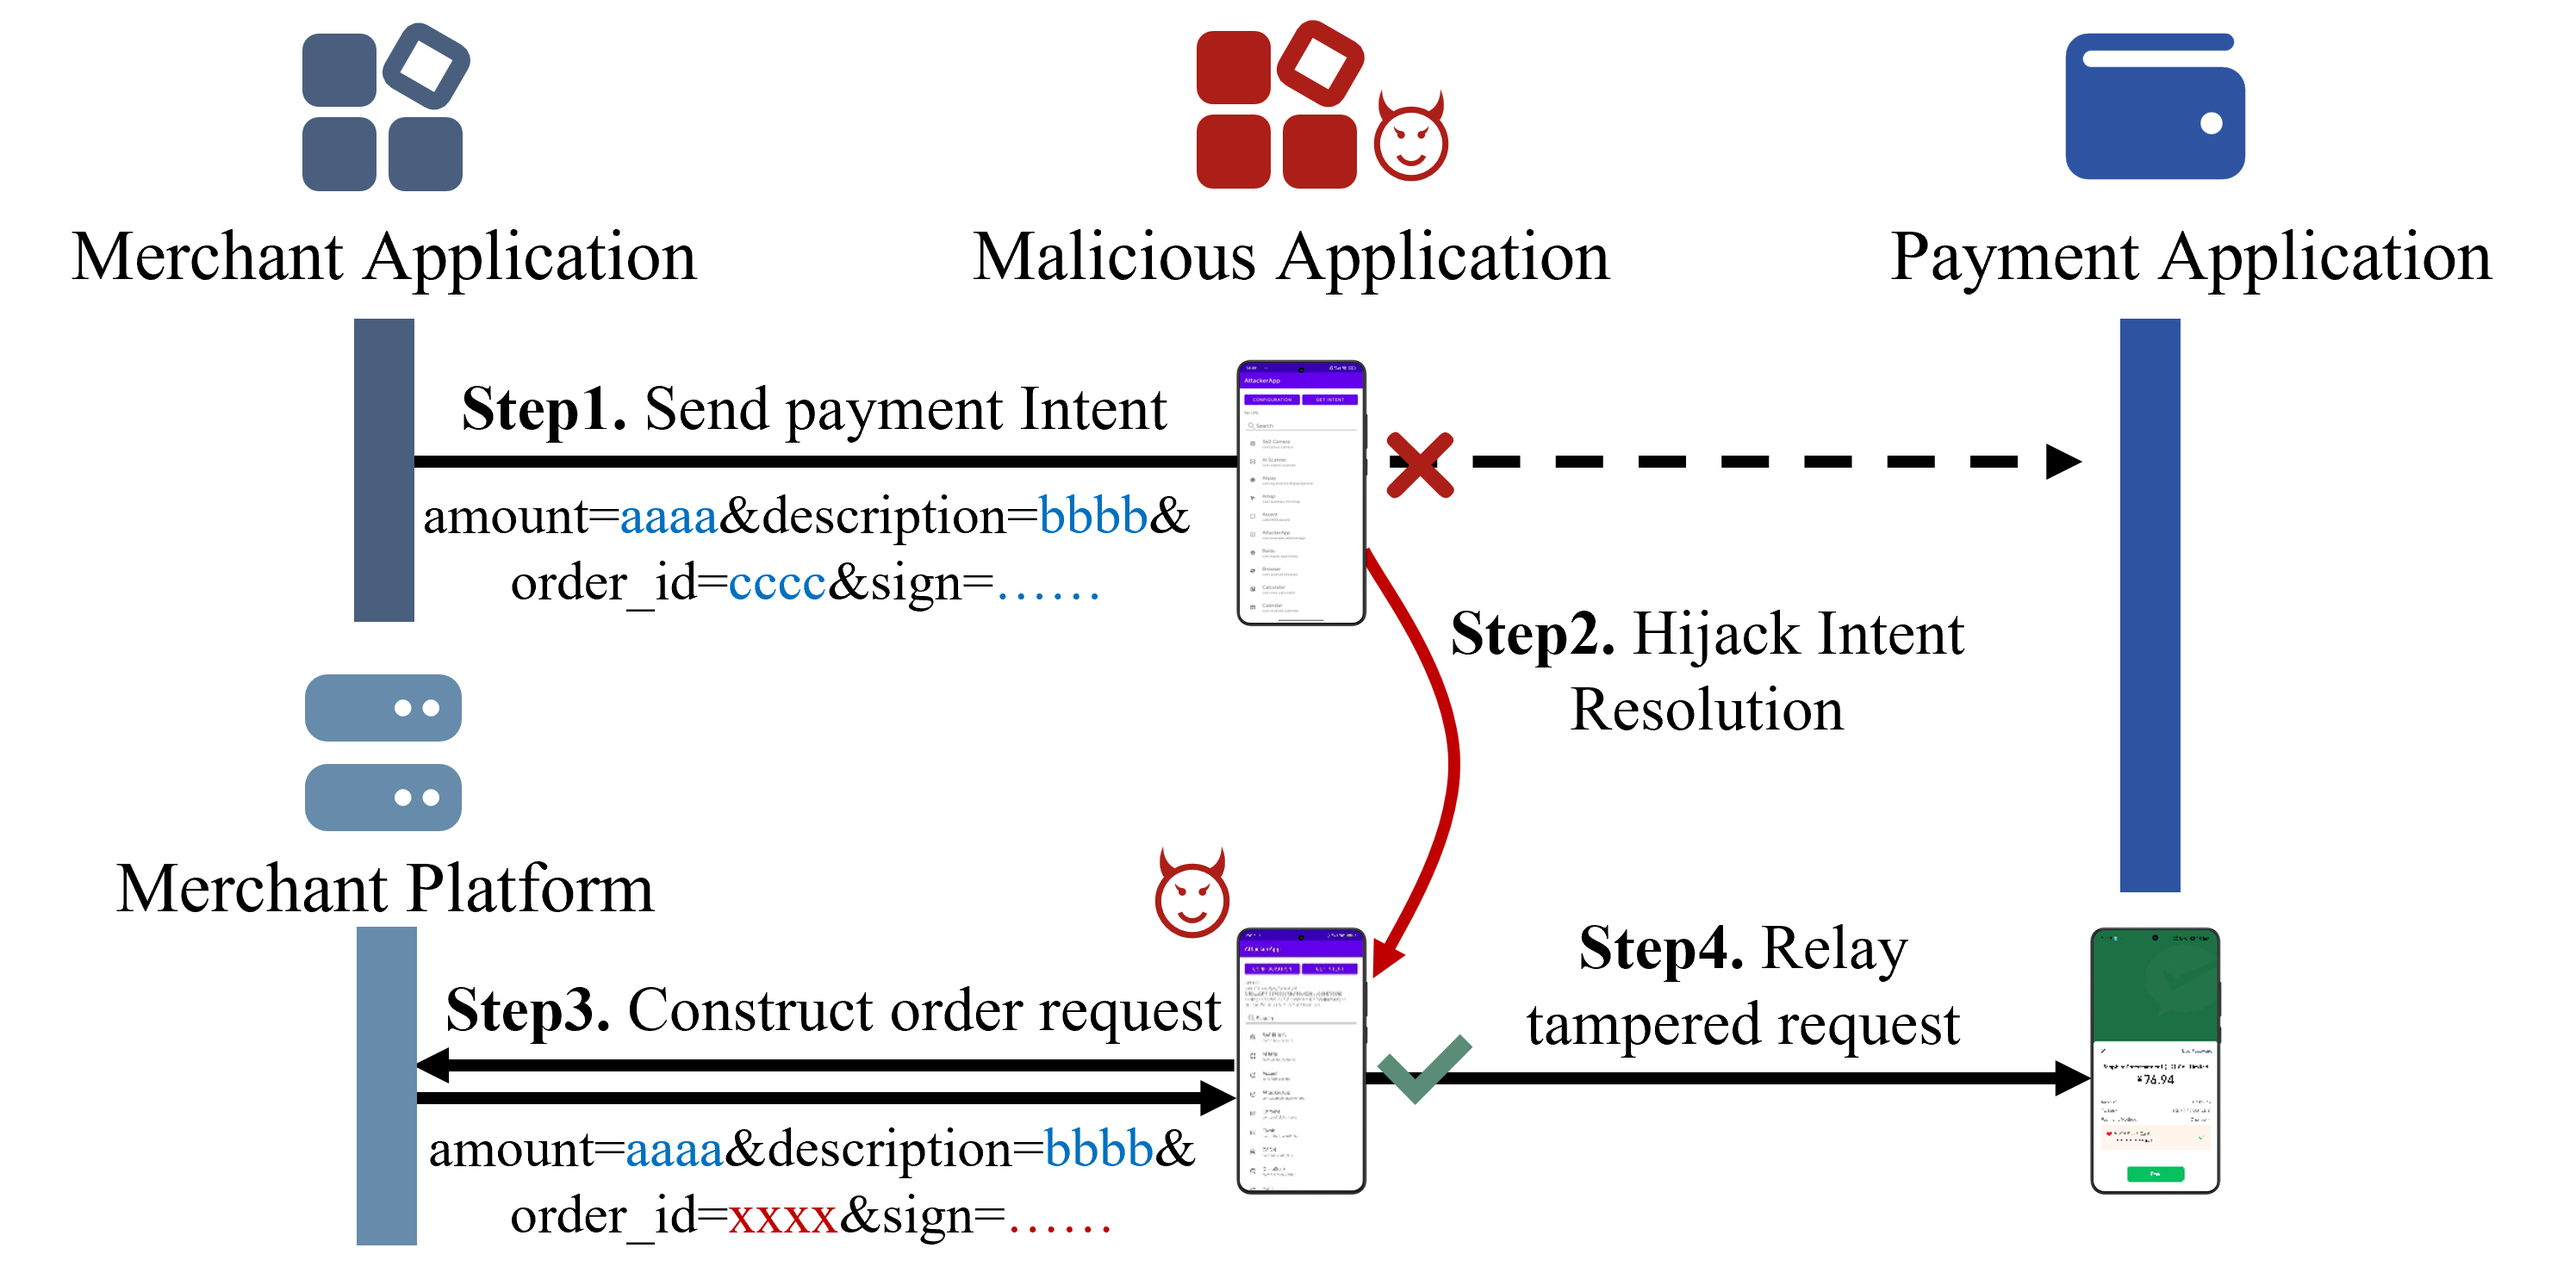
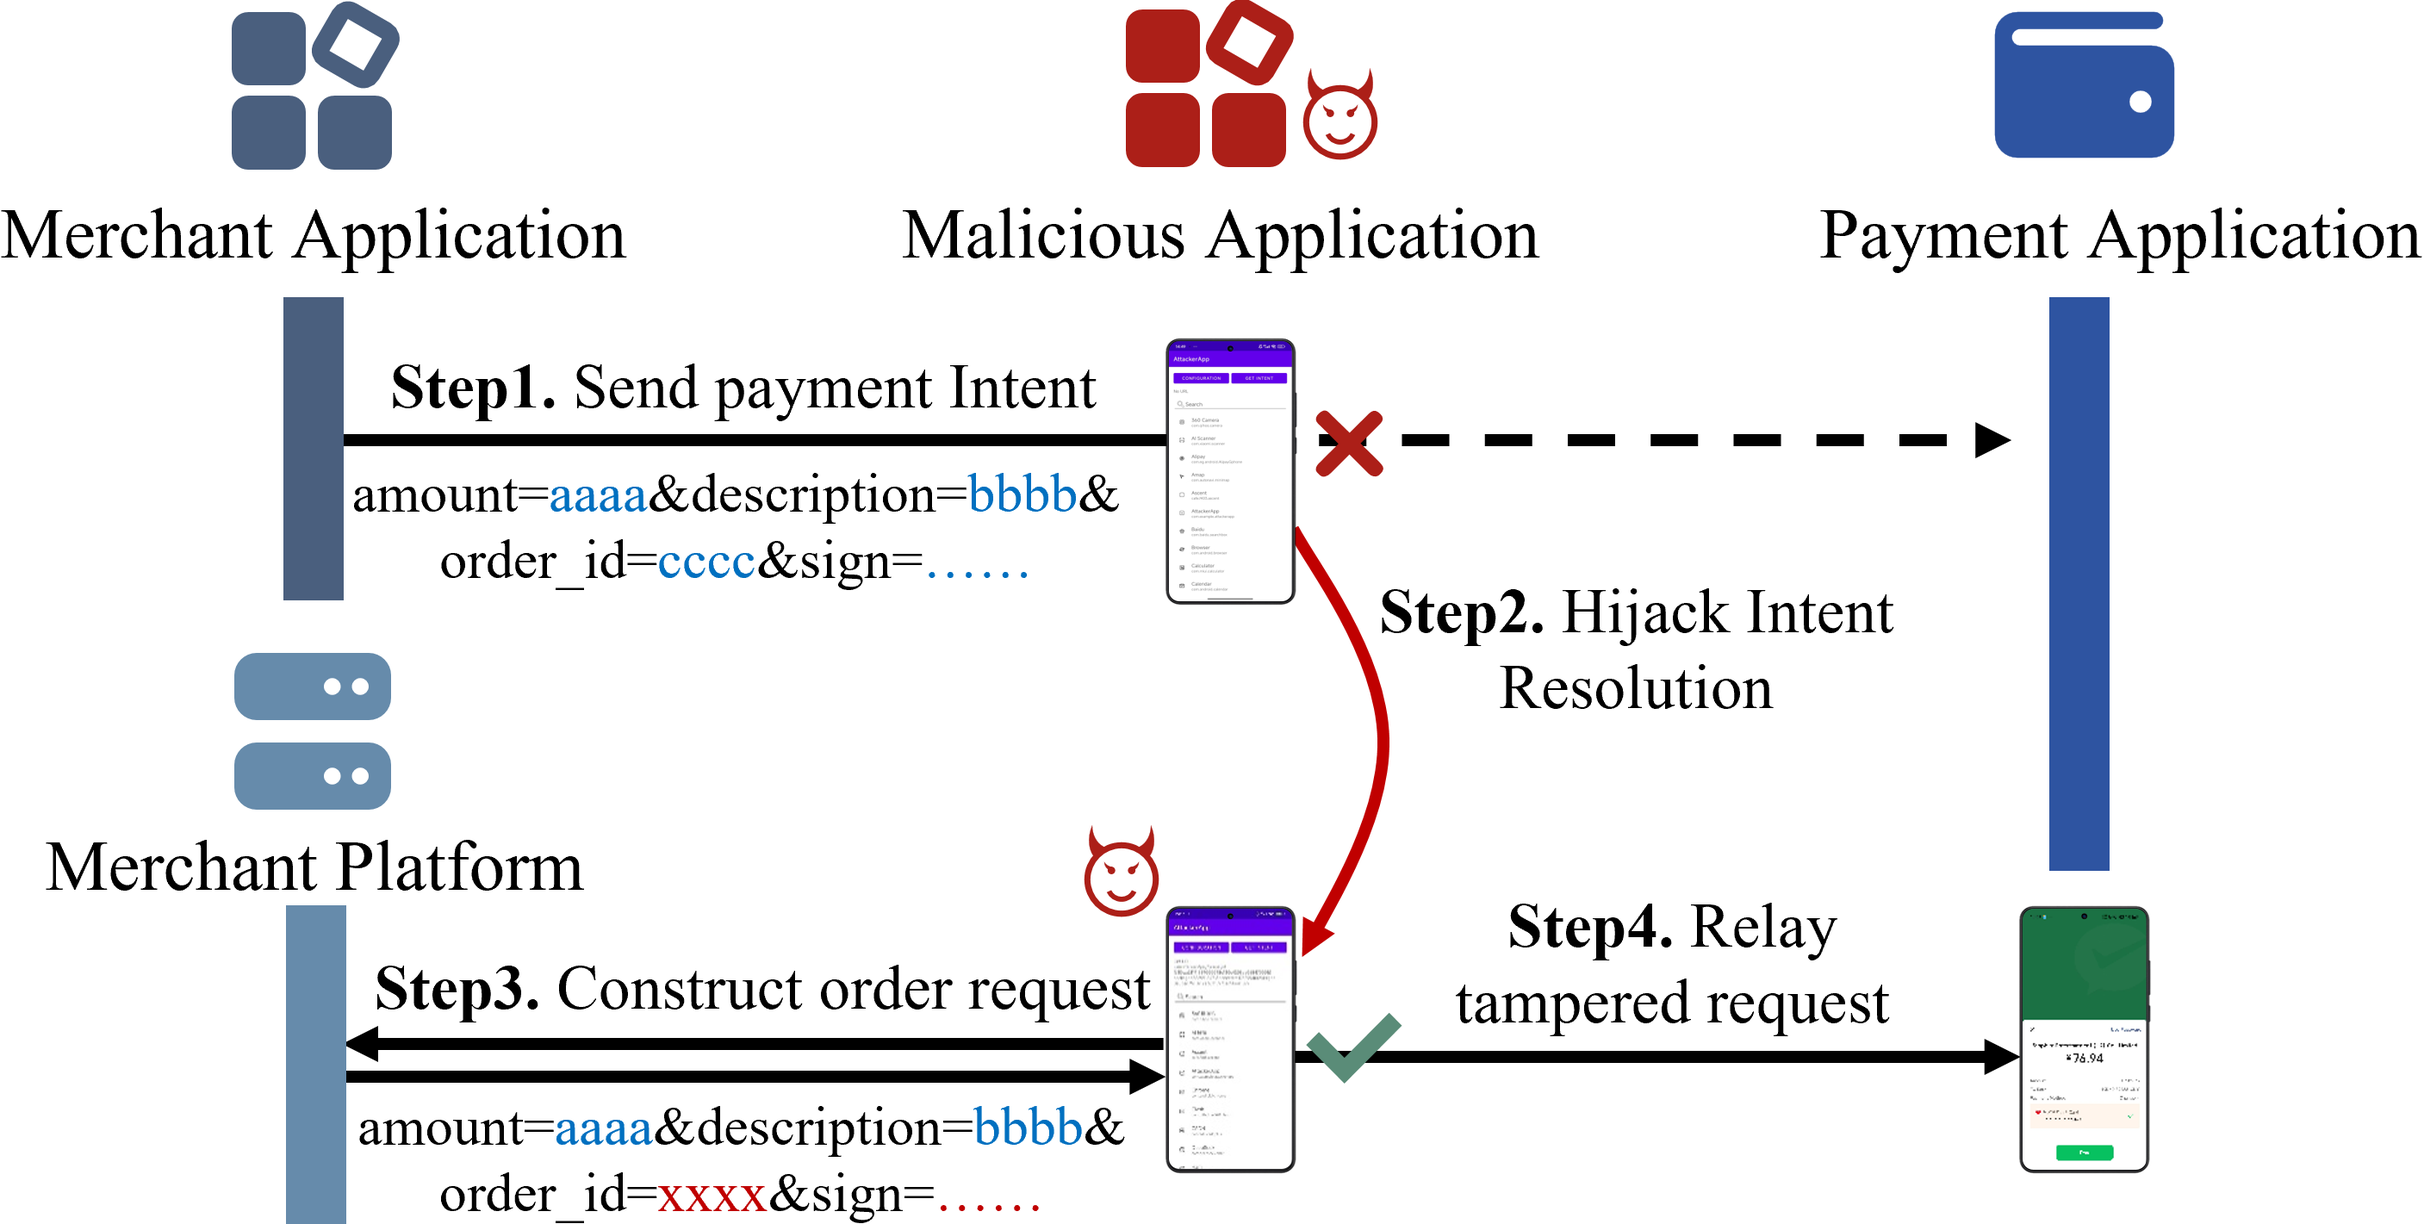
update

diff --git a/sections/countermeasures.tex b/sections/countermeasures.tex
@@ -21,14 +21,14 @@ Therefore, defending against order tampering attacks solely by securing communic
 Consequently, mitigation is often reactive: once an insecure communication channel is identified, merchants and users are notified to apply patches.
 
 \textbf{Root Causes}
-The root cause of such attacks lies in the lack of an effective user-side authentication mechanism for order information in existing payment patterns.
+The root cause of such attacks lies in the lack of a user-side authentication mechanism for order information in existing payment patterns.
 We examine the typical actions performed by users during the payment process: entering a payment password to authorize the transaction, and possibly verifying the payment amount and description.
-However, the user does not actually authenticate the order itself.
+However, the user does not actually authenticate the order.
 Information such as the payment amount and item description merely represents the content of the current payment, and does not correspond to the original order that the user intends to confirm.
 In other words, during the \emph{Authentication} phase, the user performs no form of authentication of the order data.
 The user's authorization is applied only to the act of payment transaction, rather than to a specific order.
 Once an attacker is able to tamper with order parameters in transit, the user can be induced to authorize an incorrect order.
-This observation reveals a fundamental design flaw in current payment patterns.
+This observation reveals a design flaw in current payment patterns.
 
 \subsection{Countermeasure Design}
 
@@ -46,10 +46,9 @@ This observation reveals a fundamental design flaw in current payment patterns.
   \label{fig:our_model_regular}
 \end{figure}
 
-To fundamentally address order tampering attacks, we design and propose a new third-party payment pattern that introduces a user-side order authentication mechanism to effectively prevent such attacks.
-Our payment pattern distinguishes between \emph{initial} and \emph{regular} payments, whose workflows are illustrated in Fig.~\ref{fig:our_model_initial} and Fig.~\ref{fig:our_model_regular}, respectively.
+To fundamentally address order tampering attacks, we design and propose a new third-party payment protocol that introduces a user-side order authentication mechanism to effectively prevent such attacks.
+Our payment protocol distinguishes between \emph{initial} and \emph{regular} payments, whose workflows are illustrated in Fig.~\ref{fig:our_model_initial} and Fig.~\ref{fig:our_model_regular}, respectively.
 For a given merchant and user, the first payment initiated by the user is defined as an \emph{initial} payment, while all later payments are defined as \emph{regular} payments.
-Our model is backward compatible with existing payment patterns, preserves most of their workflows, and enables payment service providers to deploy it incrementally without modifying the existing payment process.
 
 At the beginning of the \emph{Prepayment} phase of a user's initial payment, \emph{MS} generates a public–private key pair $(priv_{UA}, pub_{UA})$ for \emph{U}, and then uses the merchant private key $priv_M$ to sign $pub_{UA}$ together with the order information before sending them to \emph{PS}.
 Then, \emph{PS} temporarily stores $pub_{UA}$ together with the order information and returns the prepay identifier~($id_{prepay}$) to the merchant.
@@ -70,7 +69,7 @@ Otherwise, the application informs the user that the merchant is not trusted and
 \input{tables/countermeasure.tex}
 
 We formally modeled and verified the initial and regular payments, and the results are summarized in Table~\ref{tab:countermeasure-results}.
-The analysis shows that under all three channel assumptions, our regular payment pattern effectively defends against order tampering attacks and satisfies all security properties.
+The analysis shows that under all three channel assumptions, our regular payment effectively defends against order tampering attacks and satisfies all security properties.
 This demonstrates that by introducing an order authentication mechanism on the user side, we can fundamentally address the problem of order tampering attacks.
-Although our initial payment pattern does not satisfy all security properties under certain channel assumptions, which is consistent with the behavior of Model~B, 
+Although our initial payment does not satisfy all security properties under certain channel assumptions, which is consistent with the behavior of Model~B, 
 the initial payment occurs only once and thus minimizes the likelihood of successful attacks.

diff --git a/sections/real_world.tex b/sections/real_world.tex
@@ -22,12 +22,16 @@ When requesting a payment, a merchant application should use an explicit Intent 
 However, we find that some merchant applications use implicit Intents in practice.
 This means that an attacker can hijack payment requests originally sent to a payment application by deploying a malicious app that declares the same Intent handling capability.
 
+Intent hijacking is not specific to payment scenarios, but rather a systemic security risk inherent in the Android component communication mechanism.
+However, existing third-party online payment protocols are designed under the assumption that the communication channel between the merchant client and the payment application is trusted. 
+This channel assumption is unrealistic in real-world deployments.
+
 \subsection{Attack Execution}
 
 \begin{figure}[t]
   \centering
   \includegraphics[width=0.65\linewidth]{img/setup.png}
-  \caption{Attack setup. 
+  \caption{Attack Setup. 
     \ding{172} denotes the victim device, which installs the malicious app, a vulnerable merchant application, and a payment application. 
     \ding{173} denotes the attacker device, which installs the attacker app. 
     The screenshots shown on \ding{172} and \ding{173} correspond to the real interfaces of the malicious app and the attacker app, respectively.
@@ -52,7 +56,7 @@ As a result, the attacker successfully tampers with the order, causing the user 
 
 \begin{figure}[t]
   \centering
-  \includegraphics[width=\linewidth]{img/attack_flow.pdf}
+  \includegraphics[width=\linewidth]{img/attack_flow.png}
   \caption{Attack Flow.}
   \label{fig:real_world_attack_flow}
 \end{figure}
@@ -71,6 +75,5 @@ More importantly, the cumulative number of downloads of these vulnerable applica
 \subsection{Responsible Disclosure}
 Following responsible disclosure guidelines, we reported the vulnerability to the security teams of WeChat Pay and Alipay in December 2025. 
 At the time of writing, both providers had acknowledged the issue and confirmed that remediation efforts were underway. 
-Alipay planned to deploy a fix by the end of January 2026.
 In addition, we contacted the developers of 56 affected Android applications and games, recommending the use of explicit Intents to ensure the secure transmission of payment requests.
 We received positive responses from 14 developers, who indicated that they would update their applications promptly to address the issue.

diff --git a/sections/introduction.tex b/sections/introduction.tex
@@ -75,8 +75,8 @@ We make the following contributions:
     Based on our formal analysis results, we identified a new variant of order tampering attacks and successfully demonstrated it in a real-world payment environment.
     Our further measurement study shows that this vulnerability affects more than 25\% of real-world applications.
   \item \textbf{Proposal of a formal verified countermeasure.}
-    We propose a new payment pattern as a countermeasure, which introduces a user-side order authentication mechanism to address the identified design flaws.
-    Formal verification results demonstrate that the proposed pattern can maintain robust security, even under weakened channel assumptions.
+    We propose a new payment protocol as a countermeasure, which introduces a user-side order authentication mechanism to address the identified design flaws.
+    Formal verification results demonstrate that the proposed protocol can maintain security, even under weakened channel assumptions.
 \end{enumerate}
 
 % \noindent\textbf{Disclosure.}

diff --git a/main.tex b/main.tex
@@ -131,7 +131,7 @@
 \newcommand{\Tterm}[1]{{\ttfamily #1}}
 \newcommand{\Tequation}[1]{{\ttfamily #1}}
 \newcommand{\Tfunction}[1]{{\ttfamily #1}}
-\newcommand{\Tamarin}{Tamarin-Prover}
+\newcommand{\Tamarin}{{Tamarin-Prover }}
 
 \newcommand{\TFrTerm}[1]{{\Tterm{$\sim$#1}}}
 \newcommand{\TFactTerm}[2]{{\ttfamily #1}$(\,$\Tterm{#2}$\,)$}
@@ -178,7 +178,7 @@
 \date{}
 
 % make title bold and 14 pt font (Latex default is non-bold, 16 pt)
-\title{\Large \bf Payments across Insecurity:\\
+\title{\Large \bf When Authorization Loses Its Meaning:\\
     Breaking and Fixing Third-Party Online Payments}
 
 % %for single author (just remove % characters)
